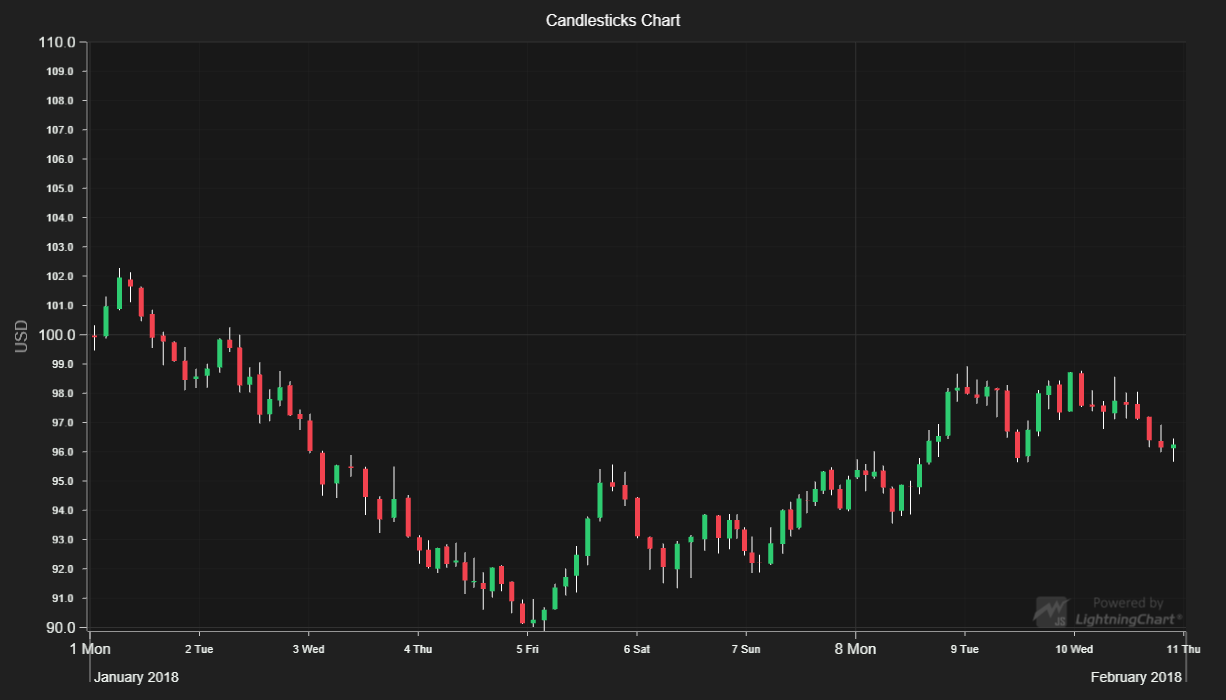
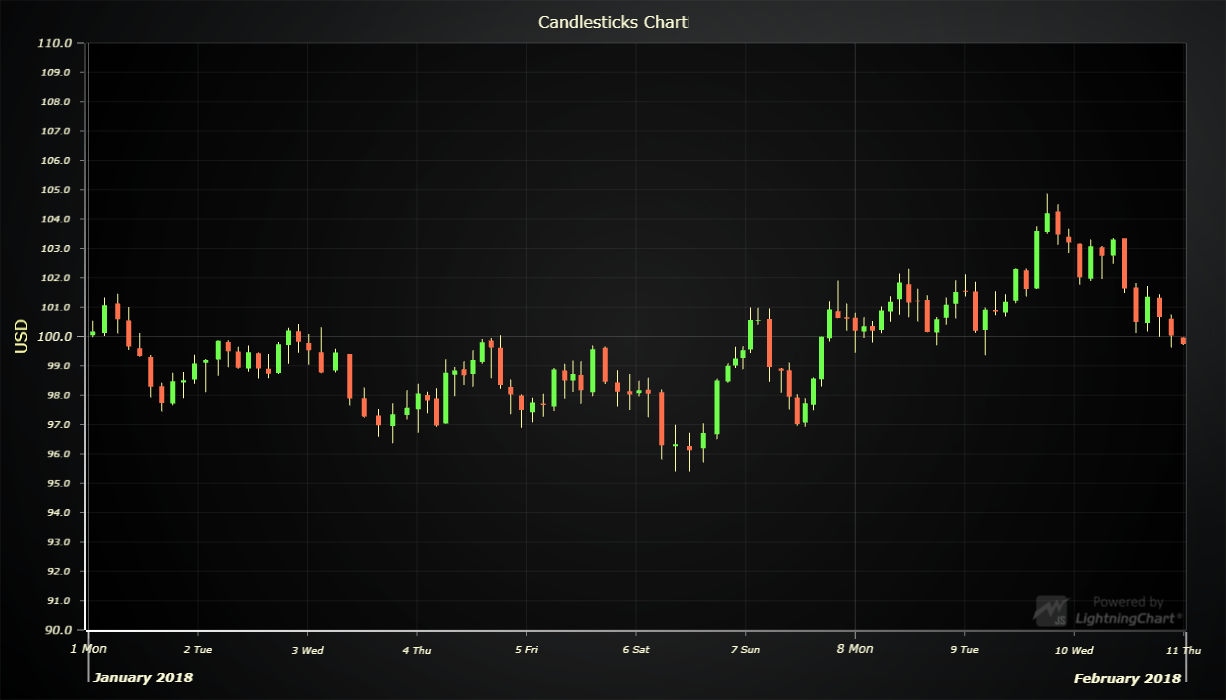
Update LCJS version

diff --git a/webpack.config.js b/webpack.config.js
@@ -69,7 +69,8 @@ module.exports = {
         }),
         new CopyWebpackPlugin({
             patterns: [
-                { from: './assets/**/*', to: './examples/assets', flatten: true, noErrorOnMissing: true }
+                { from: './assets/**/*', to: './examples/assets', flatten: true, noErrorOnMissing: true },
+                { from: './node_modules/@arction/lcjs/dist/resources', to: 'resources', noErrorOnMissing: true },
             ]
         })
     ]

diff --git a/src/index.js b/src/index.js
@@ -24,7 +24,7 @@ const dateOrigin = new Date(2018, 0, 1)
 
 // Create a XY Chart.
 const chart = lightningChart().ChartXY({
-    // theme: Themes.dark
+    // theme: Themes.darkGold
 })
 // Use DateTime X-axis using with above defined origin.
 chart

diff --git a/README.md b/README.md
@@ -95,10 +95,10 @@ Direct developer email support can be purchased through a [Support Plan][4] or b
 © Arction Ltd 2009-2020. All rights reserved.
 
 
-[XY cartesian chart]: https://www.arction.com/lightningchart-js-api-documentation/v3.0.1/classes/chartxy.html
-[Axis tick strategies]: https://www.arction.com/lightningchart-js-api-documentation/v3.0.1/globals.html#axistickstrategies
-[Figure types]: https://www.arction.com/lightningchart-js-api-documentation/v3.0.1/globals.html#ohlcfigures
-[OHLC series]: https://www.arction.com/lightningchart-js-api-documentation/v3.0.1/classes/chartxy.html#addohlcseries
-[XOHLC datastructure]: https://www.arction.com/lightningchart-js-api-documentation/v3.0.1/globals.html#xohlc
+[XY cartesian chart]: https://www.arction.com/lightningchart-js-api-documentation/v3.1.0/classes/chartxy.html
+[Axis tick strategies]: https://www.arction.com/lightningchart-js-api-documentation/v3.1.0/globals.html#axistickstrategies
+[Figure types]: https://www.arction.com/lightningchart-js-api-documentation/v3.1.0/globals.html#ohlcfigures
+[OHLC series]: https://www.arction.com/lightningchart-js-api-documentation/v3.1.0/classes/chartxy.html#addohlcseries
+[XOHLC datastructure]: https://www.arction.com/lightningchart-js-api-documentation/v3.1.0/globals.html#xohlc
 [OHLC generator]: https://arction.github.io/xydata/classes/ohlcgenerator.html
 
